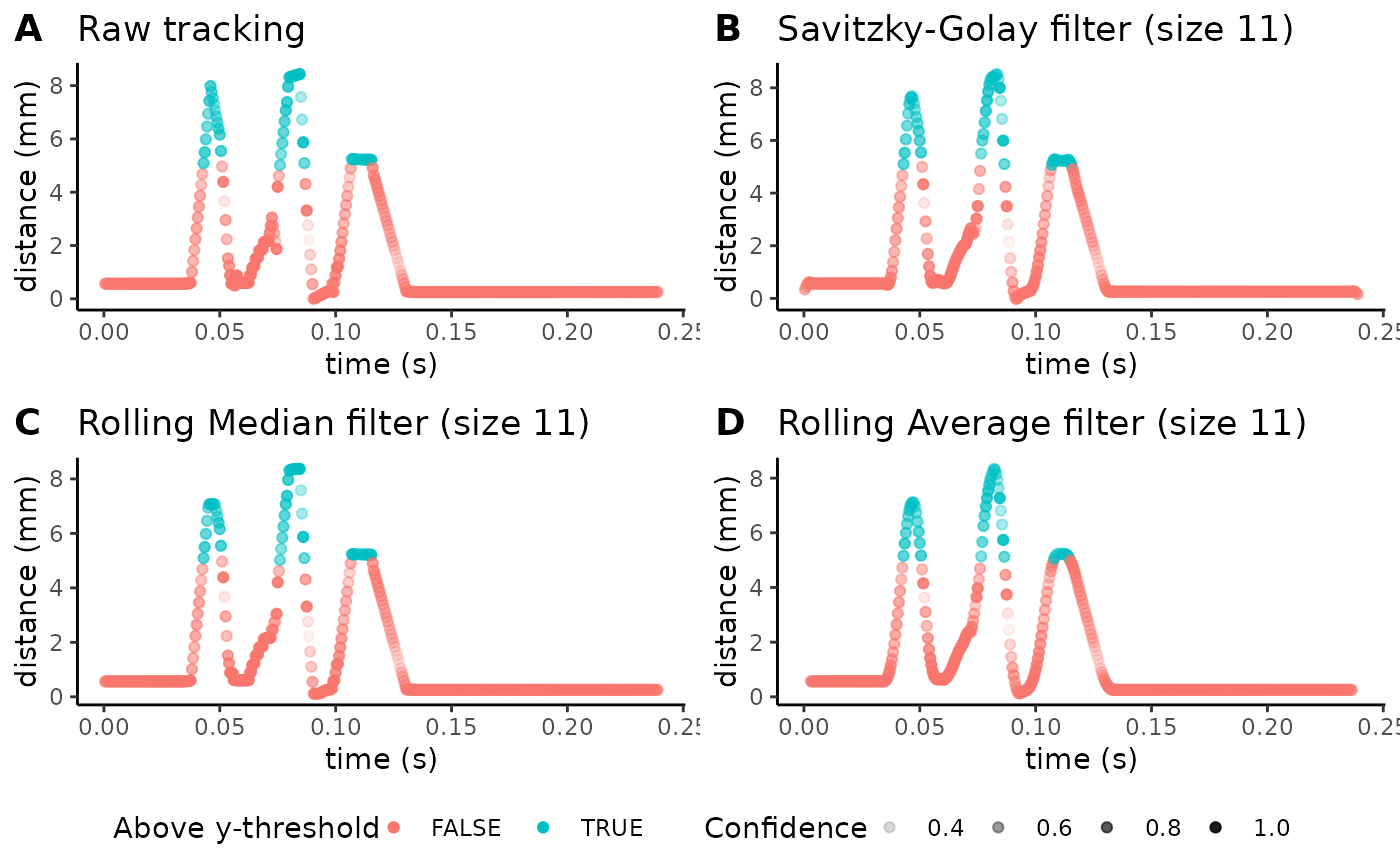
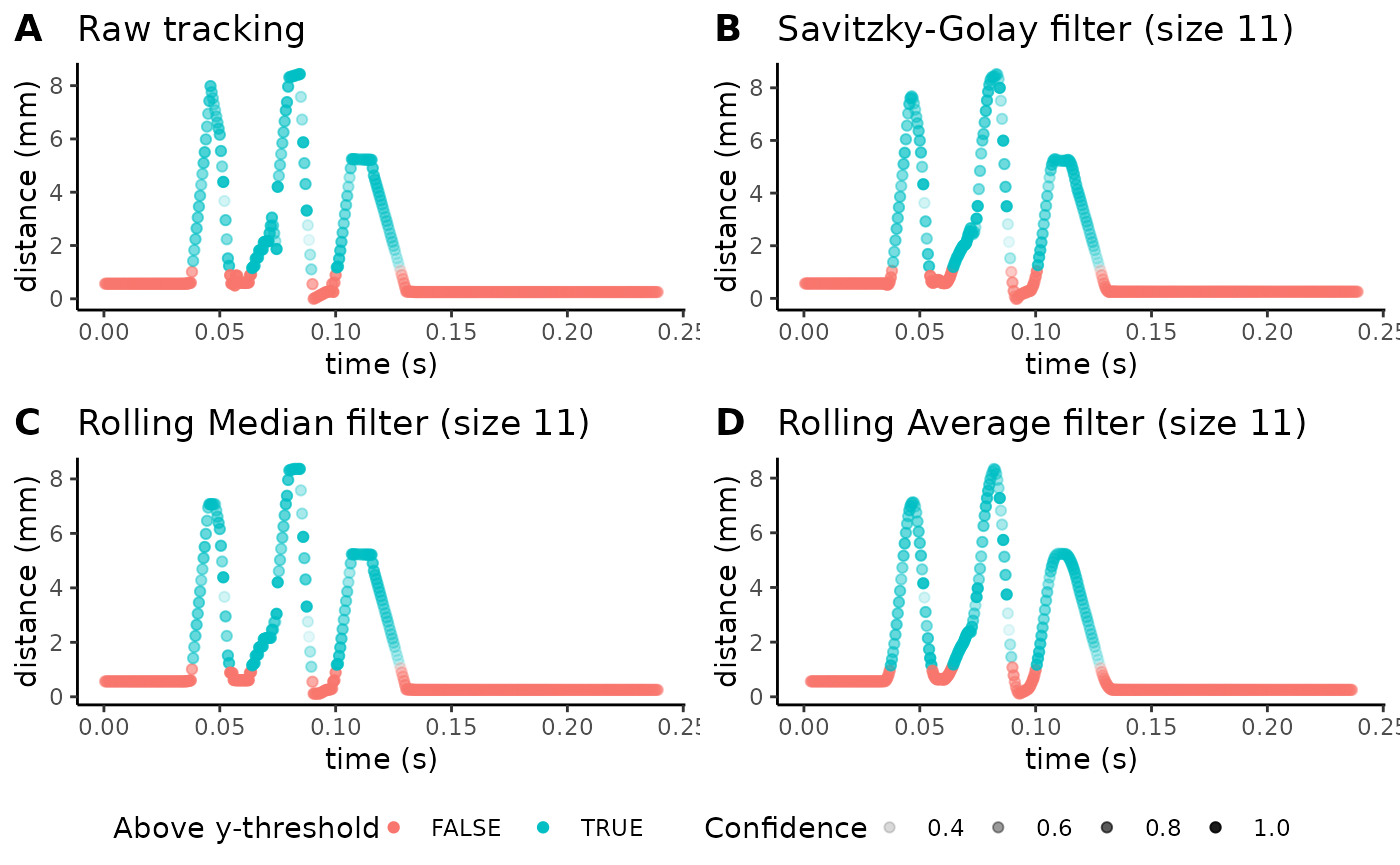
Deploying to gh-pages from @ osimon81/PAWS@34f9114597d5081fefa95475c46eff7d6d2aefd7 🚀

diff --git a/articles/Tutorial.html b/articles/Tutorial.html
@@ -115,6 +115,8 @@ parameters:</p>
 <span>                   savgol_window_length <span class="op">=</span> <span class="fl">25</span>,</span>
 <span>                   median_window_length <span class="op">=</span> <span class="fl">25</span>,</span>
 <span>                   average_window_length <span class="op">=</span> <span class="fl">25</span>,</span>
+<span>                   fixed_baseline <span class="op">=</span> <span class="fl">1</span>,</span>
+<span>                   y_threshold <span class="op">=</span> <span class="fl">0.1</span>,</span>
 <span>                   body_part <span class="op">=</span> <span class="st">"center"</span>,</span>
 <span>                   axis <span class="op">=</span> <span class="st">"y"</span><span class="op">)</span></span>
 <span><span class="co">#&gt; Registered S3 method overwritten by 'quantmod':</span></span>
@@ -183,6 +185,8 @@ mouse in the ARM group:</p>
 <span>                   savgol_window_length <span class="op">=</span> <span class="fl">11</span>,</span>
 <span>                   median_window_length <span class="op">=</span> <span class="fl">11</span>,</span>
 <span>                   average_window_length <span class="op">=</span> <span class="fl">11</span>,</span>
+<span>                   fixed_baseline <span class="op">=</span> <span class="fl">1</span>,</span>
+<span>                   y_threshold <span class="op">=</span> <span class="fl">0.1</span>,</span>
 <span>                   body_part <span class="op">=</span> <span class="st">"center"</span>,</span>
 <span>                   axis <span class="op">=</span> <span class="st">"y"</span><span class="op">)</span></span>
 <span><span class="co">#&gt; Warning: Removed 10 rows containing missing values (`geom_point()`).</span></span></code></pre></div>
@@ -206,6 +210,8 @@ data changes:</p>
 <span>                   savgol_window_length <span class="op">=</span> <span class="fl">11</span>,</span>
 <span>                   median_window_length <span class="op">=</span> <span class="fl">11</span>,</span>
 <span>                   average_window_length <span class="op">=</span> <span class="fl">11</span>,</span>
+<span>                   fixed_baseline <span class="op">=</span> <span class="fl">1</span>,</span>
+<span>                   y_threshold <span class="op">=</span> <span class="fl">0.1</span>,</span>
 <span>                   body_part <span class="op">=</span> <span class="st">"center"</span>,</span>
 <span>                   axis <span class="op">=</span> <span class="st">"y"</span><span class="op">)</span></span>
 <span><span class="co">#&gt; Warning: Removed 10 rows containing missing values (`geom_point()`).</span></span></code></pre></div>
@@ -240,6 +246,8 @@ settings, you can run the following function:</p>
 <span>                   filter <span class="op">=</span> <span class="st">"average"</span>,</span>
 <span>                   fps <span class="op">=</span> <span class="fl">2000</span>,</span>
 <span>                   average_window_length <span class="op">=</span> <span class="fl">11</span>,</span>
+<span>                   fixed_baseline <span class="op">=</span> <span class="fl">1</span>,</span>
+<span>                   y_threshold <span class="op">=</span> <span class="fl">0.1</span>,</span>
 <span>                   body_part <span class="op">=</span> <span class="st">"center"</span><span class="op">)</span></span></code></pre></div>
 <p><img src="Tutorial_files/figure-html/plotting%20smoothed%20univariate%20projection%20with%20average%20filter-1.png" width="480"></p>
 <p>You’ll notice how the plots above are much smoother than if we run
@@ -253,6 +261,8 @@ below):</p>
 <span>                   filter <span class="op">=</span> <span class="st">"none"</span>,</span>
 <span>                   fps <span class="op">=</span> <span class="fl">2000</span>,</span>
 <span>                   body_part <span class="op">=</span> <span class="st">"center"</span>,</span>
+<span>                   fixed_baseline <span class="op">=</span> <span class="fl">1</span>,</span>
+<span>                   y_threshold <span class="op">=</span> <span class="fl">0.1</span>,</span>
 <span>                   shake_threshold <span class="op">=</span> <span class="fl">0.35</span><span class="op">)</span></span></code></pre></div>
 <p><img src="Tutorial_files/figure-html/plotting%20raw%20univariate%20projection-1.png" width="480"></p>
 <p>Above, you can also alter the <code>shake_threshold</code> parameter
@@ -275,6 +285,8 @@ parts for our CSV:</p>
 <span>  csv_or_path <span class="op">=</span> <span class="va">lp_arm_stim</span>, p_cutoff <span class="op">=</span> <span class="fl">0</span>,</span>
 <span>  reference_distance <span class="op">=</span> <span class="fl">40</span>, manual_scale_factor <span class="op">=</span> <span class="cn">NA</span>,</span>
 <span>  filter <span class="op">=</span> <span class="st">"average"</span>, average_window_length <span class="op">=</span> <span class="fl">11</span>,</span>
+<span>  fixed_baseline <span class="op">=</span> <span class="fl">1</span>,</span>
+<span>  y_threshold <span class="op">=</span> <span class="fl">0.1</span>,</span>
 <span>  fps <span class="op">=</span> <span class="fl">2000</span>, body_part <span class="op">=</span> <span class="st">"toe"</span></span>
 <span><span class="op">)</span></span>
 <span></span>
@@ -282,6 +294,8 @@ parts for our CSV:</p>
 <span>  csv_or_path <span class="op">=</span> <span class="va">lp_arm_stim</span>, p_cutoff <span class="op">=</span> <span class="fl">0</span>,</span>
 <span>  reference_distance <span class="op">=</span> <span class="fl">40</span>, manual_scale_factor <span class="op">=</span> <span class="cn">NA</span>,</span>
 <span>  filter <span class="op">=</span> <span class="st">"average"</span>, average_window_length <span class="op">=</span> <span class="fl">11</span>,</span>
+<span>  fixed_baseline <span class="op">=</span> <span class="fl">1</span>,</span>
+<span>  y_threshold <span class="op">=</span> <span class="fl">0.1</span>,</span>
 <span>  fps <span class="op">=</span> <span class="fl">2000</span>, body_part <span class="op">=</span> <span class="st">"center"</span></span>
 <span><span class="op">)</span></span>
 <span></span>
@@ -289,6 +303,8 @@ parts for our CSV:</p>
 <span>  csv_or_path <span class="op">=</span> <span class="va">lp_arm_stim</span>, p_cutoff <span class="op">=</span> <span class="fl">0</span>,</span>
 <span>  reference_distance <span class="op">=</span> <span class="fl">40</span>, manual_scale_factor <span class="op">=</span> <span class="cn">NA</span>,</span>
 <span>  filter <span class="op">=</span> <span class="st">"average"</span>, average_window_length <span class="op">=</span> <span class="fl">11</span>,</span>
+<span>  fixed_baseline <span class="op">=</span> <span class="fl">1</span>,</span>
+<span>  y_threshold <span class="op">=</span> <span class="fl">0.1</span>,</span>
 <span>  fps <span class="op">=</span> <span class="fl">2000</span>, body_part <span class="op">=</span> <span class="st">"heel"</span></span>
 <span><span class="op">)</span></span>
 <span></span>
@@ -297,21 +313,21 @@ parts for our CSV:</p>
 <span></span>
 <span><span class="va">lp_arm_manual</span></span>
 <span><span class="co">#&gt;        pre.pain_score post.pain_score pre.max_height pre.max_x_velocity</span></span>
-<span><span class="co">#&gt; toe        -0.2558666       0.4081954       8.111239           1489.410</span></span>
-<span><span class="co">#&gt; center     -0.3108219       0.1133024       7.414087           1675.167</span></span>
-<span><span class="co">#&gt; heel       -0.5135491       3.7983165       6.051316           1477.692</span></span>
+<span><span class="co">#&gt; toe        -0.3116669      0.32753717       7.760343           1489.410</span></span>
+<span><span class="co">#&gt; center     -0.4265664     -0.02546354       6.696816           1675.167</span></span>
+<span><span class="co">#&gt; heel       -0.6157240      3.71363989       5.380741           1477.692</span></span>
 <span><span class="co">#&gt;        pre.max_y_velocity pre.distance_traveled post.max_height</span></span>
-<span><span class="co">#&gt; toe             1134.4717              12.82948       10.733584</span></span>
-<span><span class="co">#&gt; center          1036.6020              13.41530        8.681941</span></span>
-<span><span class="co">#&gt; heel             703.6586              11.20344       23.439847</span></span>
+<span><span class="co">#&gt; toe             1131.6070              12.20117       10.278125</span></span>
+<span><span class="co">#&gt; center          1033.9974              12.06299        7.873508</span></span>
+<span><span class="co">#&gt; heel             708.4806              10.23666       22.810259</span></span>
 <span><span class="co">#&gt;        post.max_x_velocity post.max_y_velocity post.distance_traveled</span></span>
-<span><span class="co">#&gt; toe               2483.291            1897.659               78.77853</span></span>
-<span><span class="co">#&gt; center            2235.985            1603.463               71.48808</span></span>
-<span><span class="co">#&gt; heel              1648.575            9300.921               98.83561</span></span>
+<span><span class="co">#&gt; toe               2483.291            1900.523               77.61317</span></span>
+<span><span class="co">#&gt; center            2235.985            1606.068               70.06825</span></span>
+<span><span class="co">#&gt; heel              1648.575            9296.099               98.83826</span></span>
 <span><span class="co">#&gt;        post.number_of_shakes post.shaking_duration post.guarding_duration</span></span>
-<span><span class="co">#&gt; toe                        4                0.0545                 0.0415</span></span>
-<span><span class="co">#&gt; center                     4                0.0535                 0.0460</span></span>
-<span><span class="co">#&gt; heel                       4                0.0255                 0.1555</span></span></code></pre></div>
+<span><span class="co">#&gt; toe                        4                0.0540                 0.0295</span></span>
+<span><span class="co">#&gt; center                     4                0.0535                 0.0270</span></span>
+<span><span class="co">#&gt; heel                       4                0.0245                 0.1650</span></span></code></pre></div>
 </div>
 </div>
 <div class="section level2">
@@ -334,7 +350,9 @@ the function to run it!]</p>
 <span>              body_parts <span class="op">=</span> <span class="fu"><a href="https://rdrr.io/r/base/c.html" class="external-link">c</a></span><span class="op">(</span><span class="st">"toe"</span>, <span class="st">"center"</span>, <span class="st">"heel"</span><span class="op">)</span>,</span>
 <span>              reference_points <span class="op">=</span> <span class="fu"><a href="https://rdrr.io/r/base/c.html" class="external-link">c</a></span><span class="op">(</span><span class="st">"objecta"</span>, <span class="st">"objectb"</span><span class="op">)</span>, </span>
 <span>              groups <span class="op">=</span> <span class="fu"><a href="https://rdrr.io/r/base/c.html" class="external-link">c</a></span><span class="op">(</span><span class="st">"arm"</span>, <span class="st">"manual"</span><span class="op">)</span>, fps <span class="op">=</span> <span class="fl">2000</span>,</span>
-<span>              shake_threshold <span class="op">=</span> <span class="fl">0.35</span><span class="op">)</span></span></code></pre></div>
+<span>              shake_threshold <span class="op">=</span> <span class="fl">0.35</span>,</span>
+<span>              fixed_baseline <span class="op">=</span> <span class="fl">1</span>,</span>
+<span>              y_threshold <span class="op">=</span> <span class="fl">0.1</span>,<span class="op">)</span></span></code></pre></div>
 <p>You can also accomplish all of the previous steps and analysis using
 an interactive dashboard by running the following code:</p>
 <div class="sourceCode" id="cb10"><pre class="downlit sourceCode r">

diff --git a/reference/plot_univariate_projection.html b/reference/plot_univariate_projection.html
@@ -64,10 +64,13 @@ trajectory of the body-part along that axis.</p>
 <span>  <span class="va">reference_distance</span>,</span>
 <span>  fps <span class="op">=</span> <span class="fl">2000</span>,</span>
 <span>  savgol_window_length <span class="op">=</span> <span class="fl">11</span>,</span>
+<span>  savgol_filter_smoothing_multiplier <span class="op">=</span> <span class="fl">3</span>,</span>
 <span>  median_window_length <span class="op">=</span> <span class="fl">11</span>,</span>
 <span>  average_window_length <span class="op">=</span> <span class="fl">11</span>,</span>
 <span>  shake_threshold <span class="op">=</span> <span class="fl">0.35</span>,</span>
-<span>  window_threshold <span class="op">=</span> <span class="fl">0.5</span></span>
+<span>  window_threshold <span class="op">=</span> <span class="fl">0.5</span>,</span>
+<span>  fixed_baseline <span class="op">=</span> <span class="fl">0.5</span>,</span>
+<span>  y_threshold <span class="op">=</span> <span class="fl">0.1</span></span>
 <span><span class="op">)</span></span></code></pre></div>
     </div>
 
@@ -118,6 +121,17 @@ to your tracking trajectory.</p></dd>
 <dt>average_window_length</dt>
 <dd><p>The rolling window length of average filter smoothing to apply
 to your tracking trajectory.</p></dd>
+
+
+<dt>fixed_baseline</dt>
+<dd><p>The height (in units of choice) above the lowest y-axis position of the paw, used
+to determine the baseline for activity. the <code>y_threshold</code> parameter is used to set a baseline for this
+level of activity.</p></dd>
+
+
+<dt>y_threshold</dt>
+<dd><p>The threshold (in units of choice) above the fixed baseline at which the start and end
+time-points of activity are determined.</p></dd>
 
 </dl></div>
     <div class="section level2">

diff --git a/reference/paws_analysis.html b/reference/paws_analysis.html
@@ -69,7 +69,10 @@ into a single CSV containing pre- and post-peak metrics.</p>
 <span>  <span class="va">groups</span>,</span>
 <span>  fps <span class="op">=</span> <span class="fl">2000</span>,</span>
 <span>  window_threshold <span class="op">=</span> <span class="fl">0.5</span>,</span>
-<span>  shake_threshold <span class="op">=</span> <span class="fl">0.35</span></span>
+<span>  fixed_baseline <span class="op">=</span> <span class="fl">0</span>,</span>
+<span>  y_threshold <span class="op">=</span> <span class="fl">0.5</span>,</span>
+<span>  shake_threshold <span class="op">=</span> <span class="fl">0.35</span>,</span>
+<span>  savgol_filter_smoothing_multiplier <span class="op">=</span> <span class="fl">3</span></span>
 <span><span class="op">)</span></span></code></pre></div>
     </div>
 
@@ -137,6 +140,17 @@ group scored data by experimental group in the final output file, so you don't h
 <dt>window_threshold</dt>
 <dd><p>The threshold to examine a given window of tracking activity
 for a withdrawal behavior. Higher values apply a more conservative window threshold.</p></dd>
+
+
+<dt>fixed_baseline</dt>
+<dd><p>The height (in units of choice) above the lowest y-axis position of the paw, used
+to determine the baseline for activity. the <code>y_threshold</code> parameter is used to set a baseline for this
+level of activity.</p></dd>
+
+
+<dt>y_threshold</dt>
+<dd><p>The threshold (in units of choice) above the fixed baseline at which the start and end
+time-points of activity are determined.</p></dd>
 
 
 <dt>shake_threshold</dt>

diff --git a/reference/plot_filter_graphs.html b/reference/plot_filter_graphs.html
@@ -61,7 +61,10 @@ along that axis.</p>
 <span>  reference_distance <span class="op">=</span> <span class="cn">NA</span>,</span>
 <span>  manual_scale_factor <span class="op">=</span> <span class="cn">NA</span>,</span>
 <span>  fps <span class="op">=</span> <span class="fl">2000</span>,</span>
+<span>  fixed_baseline <span class="op">=</span> <span class="fl">1</span>,</span>
+<span>  y_threshold <span class="op">=</span> <span class="fl">0.1</span>,</span>
 <span>  savgol_window_length <span class="op">=</span> <span class="fl">25</span>,</span>
+<span>  savgol_filter_smoothing_multiplier <span class="op">=</span> <span class="fl">3</span>,</span>
 <span>  median_window_length <span class="op">=</span> <span class="fl">25</span>,</span>
 <span>  average_window_length <span class="op">=</span> <span class="fl">25</span>,</span>
 <span>  body_part <span class="op">=</span> <span class="st">"center"</span>,</span>
@@ -92,6 +95,17 @@ If you are using two reference points, you can ignore this parameter.</p></dd>
 
 <dt>fps</dt>
 <dd><p>The frames per second of your CSV.</p></dd>
+
+
+<dt>fixed_baseline</dt>
+<dd><p>The height (in units of choice) above the lowest y-axis position of the paw, used
+to determine the baseline for activity. the <code>y_threshold</code> parameter is used to set a baseline for this
+level of activity.</p></dd>
+
+
+<dt>y_threshold</dt>
+<dd><p>The threshold (in units of choice) above the fixed baseline at which the start and end
+time-points of activity are determined.</p></dd>
 
 
 <dt>savgol_window_length</dt>

diff --git a/reference/mini_paws.html b/reference/mini_paws.html
@@ -64,7 +64,9 @@ data and outputs PAWS scores.</p>
 <span>  median_window_length <span class="op">=</span> <span class="fl">11</span>,</span>
 <span>  average_window_length <span class="op">=</span> <span class="fl">11</span>,</span>
 <span>  shake_threshold <span class="op">=</span> <span class="fl">0.35</span>,</span>
-<span>  window_threshold <span class="op">=</span> <span class="fl">0.5</span></span>
+<span>  window_threshold <span class="op">=</span> <span class="fl">0.5</span>,</span>
+<span>  fixed_baseline <span class="op">=</span> <span class="fl">1</span>,</span>
+<span>  y_threshold <span class="op">=</span> <span class="fl">0.1</span></span>
 <span><span class="op">)</span></span></code></pre></div>
     </div>
 
@@ -127,6 +129,17 @@ to match your observations).</p></dd>
 <dt>window_threshold</dt>
 <dd><p>The threshold to examine a given window of tracking activity
 for a withdrawal behavior. Higher values apply a more conservative window threshold.</p></dd>
+
+
+<dt>fixed_baseline</dt>
+<dd><p>The height (in units of choice) above the lowest y-axis position of the paw, used
+to determine the baseline for activity. the <code>y_threshold</code> parameter is used to set a baseline for this
+level of activity.</p></dd>
+
+
+<dt>y_threshold</dt>
+<dd><p>The threshold (in units of choice) above the fixed baseline at which the start and end
+time-points of activity are determined.</p></dd>
 
 </dl></div>
     <div class="section level2">
